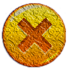
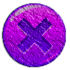
att

diff --git a/style.css b/style.css
@@ -4,11 +4,17 @@
 padding: 0;
 box-sizing: border-box;
 font-family: 'Poppins', sans-serif;}
+:root{
+  --color:#e08e00;
+}
 
-body{background-color: rgb(0, 0, 0);
+body
+{background: #000000;
+
 min-height: 100vh;
 overflow: hidden;}
 .container{max-width: 1300px;
+
 margin: 0 auto;
 padding: 0 4%;}
 nav{display:flex;
@@ -34,10 +40,10 @@ font-size: 17px;
 text-transform: uppercase;
 color: beige;}
 nav ul button{border: none;
-background: -webkit-linear-gradient(#F59E0B, #EF4444);
+  background: -webkit-linear-gradient(#8B5CF6, #EC4899);
 color: aliceblue;
 padding: 10px 20px;
-border-radius: 5px;
+border-radius: 50px;
 font-size: 16px;
 letter-spacing: 1px;
 margin-left: 15px; 
@@ -48,6 +54,16 @@ main{
     display: flex;
     align-items: center;
     justify-content: space-between;
+}
+.elementos .tri{
+  position: absolute;
+  right: 30%;
+  transform: translateX(100%);
+  width: 60%;
+  height: auto;
+  display: flex;
+
+
 }
 .script{color: wheat;}
 
@@ -78,7 +94,7 @@ font-size: 16px;}
 .text-bx .input-bx button{outline: none;
 border: none;
 padding: 10px 20px;
-background: -webkit-linear-gradient(#F59E0B, #EF4444);
+background: -webkit-linear-gradient(#8B5CF6, #EC4899);
 color: rgb(255, 255, 255);
 cursor: pointer;
 font-size:  15px; ;}
@@ -234,8 +250,8 @@ text-transform: none;}
   letter-spacing: 1.3px;
   font-weight: 700;
   color: #ffffff;
-  background: -webkit-linear-gradient(#F59E0B, #EF4444);
-background: linear-gradient(90deg, rgba(#F59E0B) 0%, rgba(#EF4444) 100%);
+  background: -webkit-linear-gradient(#8B5CF6, #EC4899);
+background: linear-gradient(90deg, rgba(#8B5CF6) 0%, rgba(#EC4899) 100%);
   border: none;
   border-radius: 1000px;
   box-shadow: 12px 12px 24px rgba(#ffffff);
@@ -252,7 +268,7 @@ content: '';
   min-width: calc(250px + 12px);
   min-height: calc(60px + 12px);
   border: 6px solid #ffffff;
-  box-shadow: 0 0 60px rgba(#F59E0B);
+  box-shadow: 0 0 60px rgba(#8B5CF6);
   position: absolute;
   top: 50%;
   left: 50%;
@@ -274,7 +290,7 @@ content: '';
   content: '';
   width: 30px; height: 30px;
   border-radius: 100%;
-  border: 6px solid #F59E0B;
+  border: 6px solid #8B5CF6;
   position:absolute;
   top: 50%;
   left: 50%;
@@ -340,8 +356,8 @@ content: '';
     letter-spacing: 1.3px;
     font-weight: 700;
     color: #ffffff;
-    background: -webkit-linear-gradient(#F59E0B, #EF4444);
-  background: linear-gradient(90deg, rgba(#F59E0B) 0%, rgba(#EF4444) 100%);
+    background: -webkit-linear-gradient(#8B5CF6, #EC4899);
+    background: linear-gradient(90deg, rgba(#8B5CF6) 0%, rgba(#EC4899) 100%);
     border: none;
     border-radius: 1000px;
     box-shadow: 12px 12px 24px rgba(#ffffff);
@@ -358,7 +374,7 @@ content: '';
     min-width: calc(250px + 12px);
     min-height: calc(60px + 12px);
     border: 6px solid #ffffff;
-    box-shadow: 0 0 60px rgba(#F59E0B);
+    box-shadow: 0 0 60px rgba(#8B5CF6);
     position: absolute;
     top: 50%;
     left: 50%;
@@ -380,7 +396,7 @@ content: '';
     content: '';
     width: 30px; height: 30px;
     border-radius: 100%;
-    border: 6px solid #F59E0B;
+    border: 6px solid #8B5CF6;
     position:absolute;
     top: 50%;
     left: 50%;

diff --git a/index.html b/index.html
@@ -52,6 +52,10 @@
             </div>
             <div class="medias-sociais"><a href="https://www.instagram.com/gabriel_castro_ux.ui/"><i class="fa fa-instagram"></i></a><a href="https://www.linkedin.com/in/gabriel-castro-231318193/"><i class="fa fa-linkedin"></i></a><a href="#"><i class="fa fa-twitter"></i></a><a href="#"><i class="fa fa-youtube-play"></i></a></div>
         </main>
+        <div class="elementos">
+            <div class="tri"><img src="tri.pg" alt=""></div>
+            
+        </div>
     
 
     </div>
